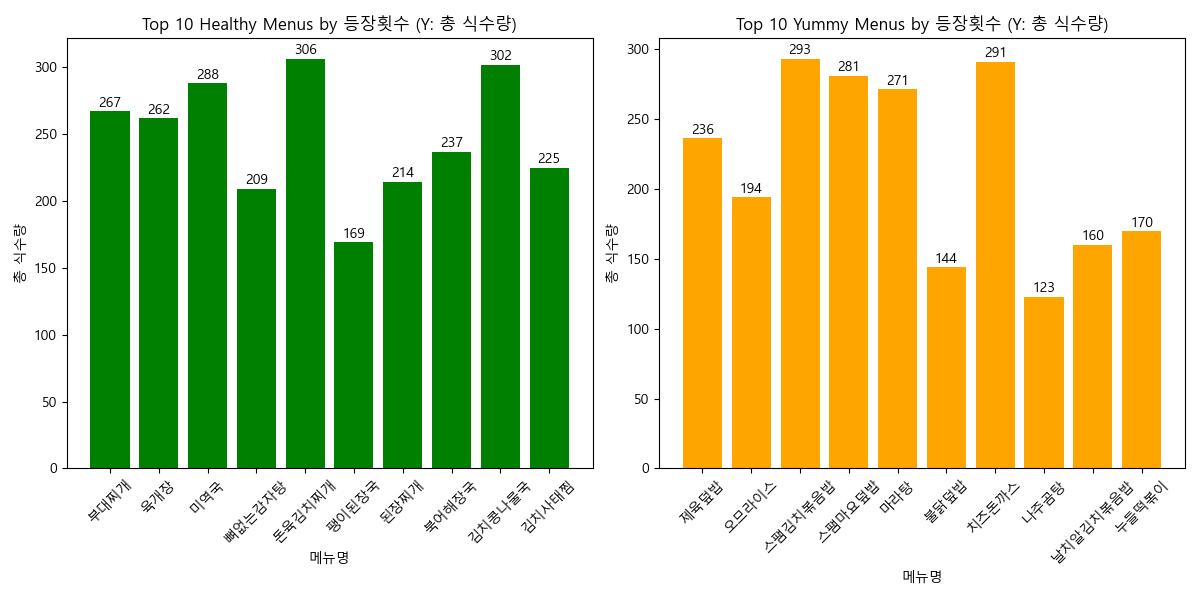
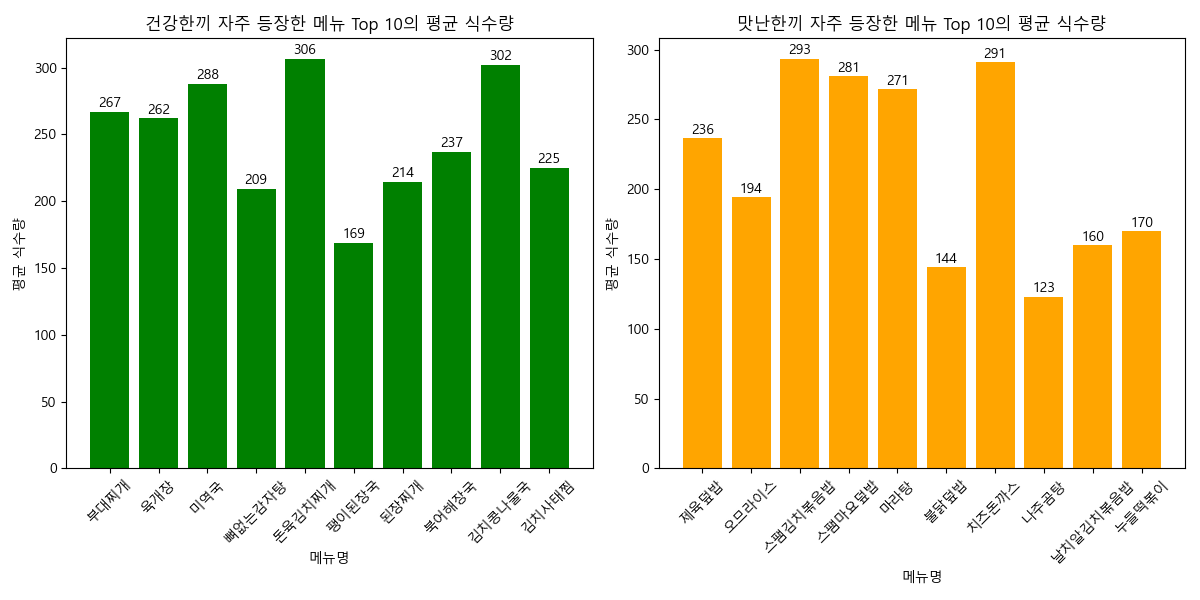
Changed title for top 10 menu visualization

diff --git a/src/visualize.py b/src/visualize.py
@@ -34,7 +34,7 @@ def plot_top10_menus_by_quantity():
     }).rename(columns={'메뉴': '등장횟수'})
 
     # Sort by 등장횟수 and pick top 10
-    top10_healthy = healthy_grouped.sort_values('등장횟수', ascending=False).head(10)
+    top10_healthy = healthy_grouped.sort_values('등장횟수', ascending=False).head(10) # descending order 
     top10_yummy = yummy_grouped.sort_values('등장횟수', ascending=False).head(10)
 
     plt.figure(figsize=(12, 6))
@@ -42,9 +42,9 @@ def plot_top10_menus_by_quantity():
     # Plot Healthy
     plt.subplot(1, 2, 1)
     bars1 = plt.bar(top10_healthy.index, top10_healthy['식수량'], color='green')
-    plt.title('Top 10 Healthy Menus by 등장횟수 (Y: 총 식수량)')
+    plt.title('건강한끼 자주 등장한 메뉴 Top 10의 평균 식수량')
     plt.xlabel('메뉴명')
-    plt.ylabel('총 식수량')
+    plt.ylabel('평균 식수량')
     plt.xticks(rotation=45)
     for bar in bars1:
         yval = bar.get_height()
@@ -53,9 +53,9 @@ def plot_top10_menus_by_quantity():
     # Plot Yummy
     plt.subplot(1, 2, 2)
     bars2 = plt.bar(top10_yummy.index, top10_yummy['식수량'], color='orange')
-    plt.title('Top 10 Yummy Menus by 등장횟수 (Y: 총 식수량)')
+    plt.title('맛난한끼 자주 등장한 메뉴 Top 10의 평균 식수량')
     plt.xlabel('메뉴명')
-    plt.ylabel('총 식수량')
+    plt.ylabel('평균 식수량')
     plt.xticks(rotation=45)
     for bar in bars2:
         yval = bar.get_height()
